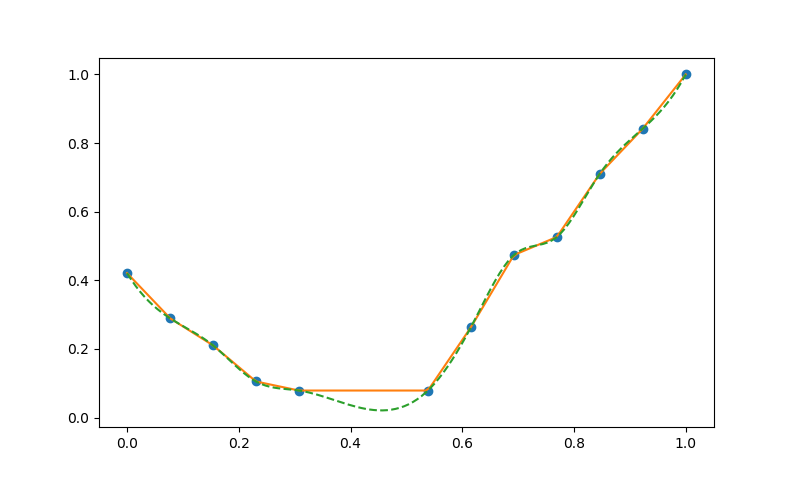
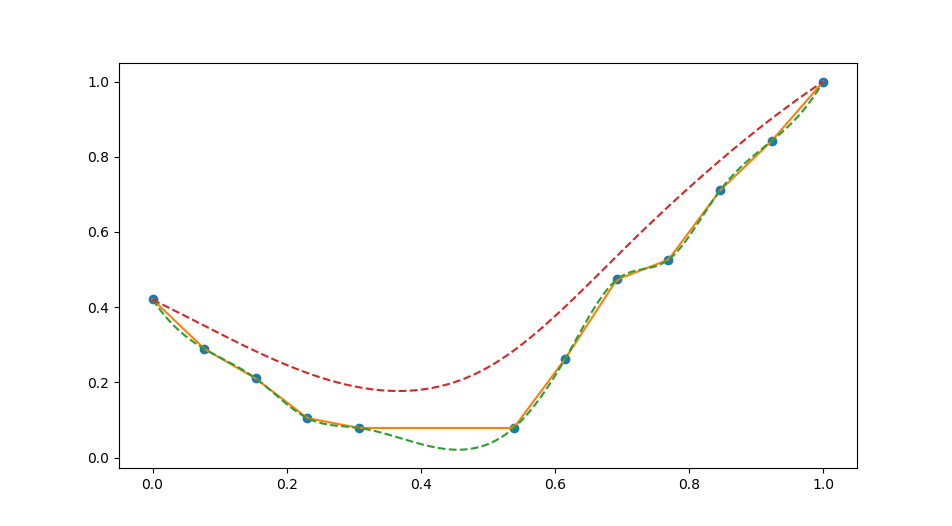
spoon: add warped edges

diff --git a/spoon/mesh.py b/spoon/mesh.py
@@ -9,6 +9,7 @@
 import csv
 import json
 import math
+import matplotlib.pyplot as plt
 import numpy as np
 import os
 from pprint import pprint
@@ -43,14 +44,18 @@ print "%s vertices per edge loop" % VERTICES_PER_EDGE_LOOP
 CENTER = (0, 0, 0)
 PRECISION = 8
 LENGTH = 140.0
-WIDTH = 45.0
+WIDTH = 50.0
 HEIGHT = 60.0
 EDGE_RADIUS = 2.0
 THICKNESS = 4.0
 DISPLACEMENT_DEPTH = 2.0
 INSET_WIDTH = 1.0
 
-WIDTHS = [(0, 0.2), (0.2, 1.0), (0.6, 0.8), (0.9, 0.4), (1.0, 0.3)]
+# TOP_CONTROL_POINTS = [(0, 0.42), (0.1, 0.33), (0.5, 0.3), (0.7, 0.55), (0.82, 0.75), (1.0, 1.0)]
+# WIDTHS = [(0, 0.2), (0.2, 1.0), (0.6, 0.8), (0.9, 0.4), (1.0, 0.3)]
+TOP_CONTROL_POINTS = [(0, 0.42), (0.1, 0.36), (0.5, 0.33), (0.7, 0.55), (0.82, 0.4), (1.0, 0.6)]
+WIDTHS = [(0, 0.2), (0.2, 1.0), (0.6, 0.8), (0.9, 0.5), (1.0, 0.4)]
+
 BASE_WIDTH = WIDTH * 0.5
 
 def ellipse(vertices, center, r1, r2, z):
@@ -193,30 +198,35 @@ def translatePoint(p, degrees, distance):
     y2 = p[1] + distance * math.sin(radians)
     return (x2, y2)
 
-def warpLoop(edgeLoop, center, length, height, width, funcY, funcZ):
-    return edgeLoop
+def warpLoop(edgeLoop, center, length, height, funcZ, funcZt, scaleZ):
+    xs = [v[0] for v in edgeLoop]
+    ys = [v[1] for v in edgeLoop]
+    zs = [v[2] for v in edgeLoop]
+    minX = min(xs)
+    maxX = max(xs)
+    minY = min(ys)
+    maxY = max(ys)
+    maxZ = max(zs)
+    hl = length * 0.5
 
     warped = []
     for i, v in enumerate(edgeLoop):
-        hl = length*0.5
-        hw = width*0.5
-        xn = norm(v[0], center[0]-hl, center[0]+hl)
-        yn = norm(v[1], center[1]-hw, center[1]+hw) - 0.5
-        xn = min(xn, 1.0)
-        xn = max(xn, 0.0)
-        fyn = abs(funcY(xn) - 0.5)
-        fzn = funcZ(xn)
-        x = v[0]
-        y = center[1] + width * fyn * yn
-        z = v[2] # TODO
-        warped.append((x, y, z))
-    return warped
+        x, y, z = v
 
-def warpLoops(edgeLoops, center, length, height, width, funcY, funcZ):
-    warped = []
-    for edgeLoop in edgeLoops:
-        wloop = warpLoop(edgeLoop, center, length, height, width, funcY, funcZ)
-        warped.append(wloop)
+        if x > minX and x < maxX:
+            xd = norm(x, center[0]-hl, center[0]+hl)
+            xd = min(xd, 1.0)
+            xd = max(xd, 0.0)
+            xn = norm(x, minX, maxX)
+            xm = 1.0 - abs(xn * 2 - 1.0)
+
+            zn = funcZ(xd) # bottom
+            znt = funcZt(xd) # top
+            znt = lerp(zn, znt, scaleZ)
+            zn = lerp(maxZ / height, znt, xm)
+            z = zn * height - center[2]
+
+        warped.append((x, y, z))
     return warped
 
 class Mesh:
@@ -423,12 +433,12 @@ ys = [d[1] for d in ndata]
 func1 = interpolate.interp1d(xs, ys, kind='linear')
 func3 = interpolate.interp1d(xs, ys, kind='cubic')
 xyears = np.linspace(0, 1, num=(END_YEAR-START_YEAR))
+func3t = interpolate.interp1d([w[0] for w in TOP_CONTROL_POINTS], [w[1] for w in TOP_CONTROL_POINTS], kind='cubic')
 func3y = interpolate.interp1d([w[0] for w in WIDTHS], [w[1] for w in WIDTHS], kind='cubic')
 
 # plot data
 if SHOW_GRAPH:
-    import matplotlib.pyplot as plt
-    plt.plot(xs, ys, 'o', xyears, func1(xyears), '-', xyears, func3(xyears), '--')
+    plt.plot(xs, ys, 'o', xyears, func1(xyears), '-', xyears, func3(xyears), '--', xyears, func3t(xyears), '--')
     plt.show()
 
 # output svg line
@@ -454,12 +464,10 @@ baseRadiusY = BASE_WIDTH * 0.5
 r1 = baseRadiusX - INSET_WIDTH*0.5
 r2 = baseRadiusY - INSET_WIDTH*0.5
 baseInset = ellipseMesh(VERTICES_PER_EDGE_LOOP, CENTER, r1, r2, 0)
-baseInset = warpLoops(baseInset, CENTER, LENGTH, HEIGHT, WIDTH, func3y, func3)
 mesh.addEdgeLoops(baseInset)
 
 # move out to base
 base = ellipse(VERTICES_PER_EDGE_LOOP, CENTER, baseRadiusX, baseRadiusY, 0)
-base = warpLoop(base, CENTER, LENGTH, HEIGHT, WIDTH, func3y, func3)
 mesh.addEdgeLoop(base)
 
 # get cup data
@@ -469,7 +477,7 @@ baseYearCenter = (baseYears[1] - baseYears[0]) * 0.5 +  baseYears[0]
 cupData = [d for d in ndata if d[0] >= cupYears[0] and d[0] < baseYears[0] or d[0] > baseYears[1] and d[0] <= cupYears[1]]
 cupData = sorted(cupData, key=lambda d: d[1])
 
-for d in cupData:
+for i, d in enumerate(cupData):
 
     xsample = np.linspace(baseYears[1], 1, num=100)
 
@@ -497,7 +505,7 @@ for d in cupData:
         r2 = width * 0.5
         # move up and out to next layer of the cup
         edgeLoop = ellipse(VERTICES_PER_EDGE_LOOP, center, r1, r2, center[2])
-        edgeLoop = warpLoop(edgeLoop, CENTER, LENGTH, HEIGHT, WIDTH, func3y, func3)
+        edgeLoop = warpLoop(edgeLoop, CENTER, LENGTH, HEIGHT, func3, func3t, 1.0 * i / (len(cupData)-1))
         mesh.addEdgeLoop(edgeLoop)
 
     else:
@@ -516,7 +524,7 @@ for i, d in enumerate(handleData):
     r2 = width * 0.5
     # move up and out to next layer of the cup
     edgeLoop = ellipse(VERTICES_PER_EDGE_LOOP, center, r1, r2, center[2])
-    edgeLoop = warpLoop(edgeLoop, CENTER, LENGTH, HEIGHT, WIDTH, func3y, func3)
+    edgeLoop = warpLoop(edgeLoop, CENTER, LENGTH, HEIGHT, func3, func3t, 1.0)
 
     vPerSide = VERTICES_PER_EDGE_LOOP / 4
     partialLoop = edgeLoop[vPerSide:(vPerSide*2+1)]
